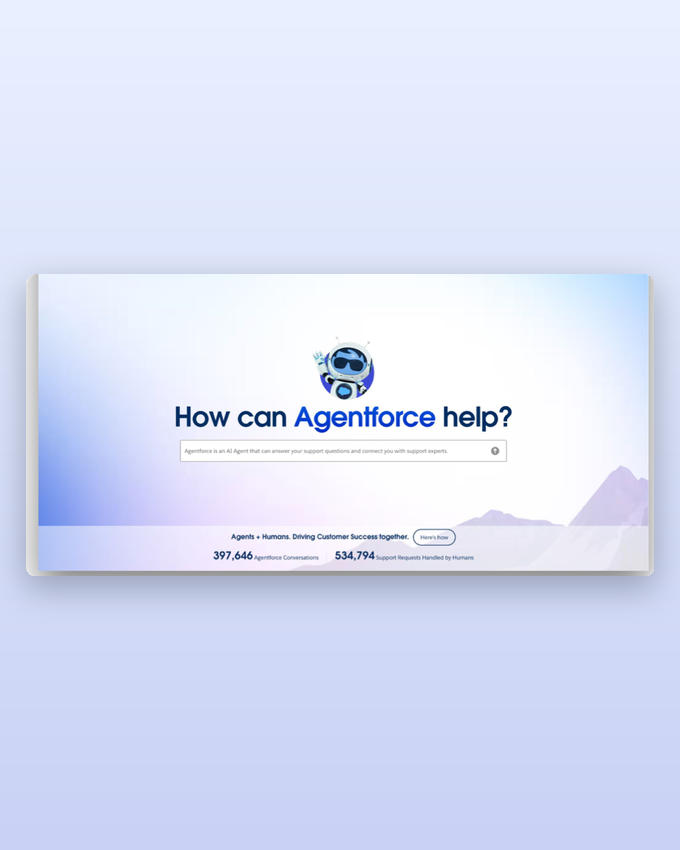
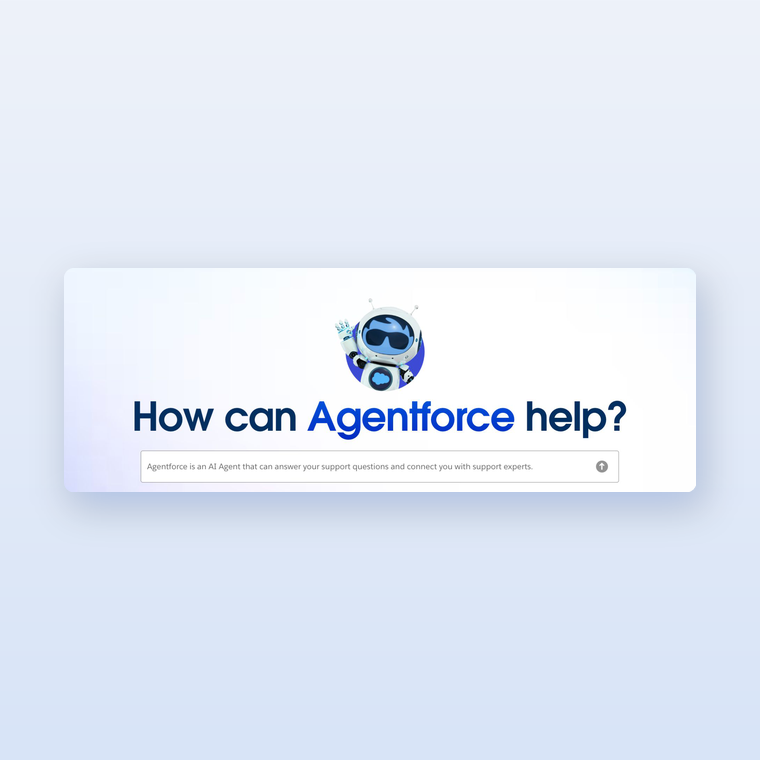
Cut Help.SF story ~68%, make it visual + codify Two-Role palette rule
- Reduce help-salesforce.html body from 1,122 to ~355 words (6 tight sections)
- Remove timeline, services grid, snapshot panel, before/after list + dead CSS
- Insert 3 framed real screenshots: before nav site, nav→conversation composite,
  live Agentforce chat
- Rebuild card hero (help-salesforce-hero.png) as the agentic conversation shot
- Keep Leadership's-ask pull quote verbatim
- Codify Two-Role color rule in DESIGN-SYSTEM.md (blue=data/action,
  bronze=editorial structure, never competing) + HANDOFF

Changed region(s): [[0.0, 0.3026, 0.9882, 0.7263], [0.3706, 0.3329, 0.7412, 0.3632]]

diff --git a/stories/help-salesforce.html b/stories/help-salesforce.html
@@ -55,41 +55,14 @@ body{background:#FAFAF7;font-family:'DM Sans',sans-serif;color:#1E2A3A;line-heig
 .pull-text{font-family:'Playfair Display',serif;font-size:18px;font-style:italic;color:#3D4F63;line-height:1.65;margin-bottom:8px}
 .pull-attr{font-family:'DM Sans',sans-serif;font-size:10px;font-weight:600;letter-spacing:0.1em;text-transform:uppercase;color:#9A6E3A}
 
-/* ── BEFORE / AFTER ── */
-.before-after{display:grid;grid-template-columns:1fr 1fr;gap:1px;background:#E8E4DC;border:1px solid #E8E4DC;border-radius:8px;overflow:hidden;margin:24px 0}
-.ba-cell{background:#fff;padding:28px 32px}
-.ba-cell.after{background:#F5F2EC}
-.ba-label{font-family:'DM Sans',sans-serif;font-size:9px;font-weight:600;letter-spacing:0.2em;text-transform:uppercase;color:#9A6E3A;margin-bottom:12px}
-.ba-label.before-lbl{color:#B8B0A0}
-.ba-item{font-family:'DM Sans',sans-serif;font-size:13px;color:#5A6678;line-height:1.7;font-weight:300;display:flex;gap:8px;margin-bottom:6px}
-.ba-item::before{content:'→';color:#9A6E3A;font-weight:600;flex-shrink:0}
-.ba-cell.after .ba-item::before{content:'✓';color:#1753C5}
-
-/* ── ROLE / SERVICES GRID ── */
-.services-grid{display:grid;grid-template-columns:repeat(3,1fr);gap:16px;margin:24px 0}
-.service-chip{background:#fff;border:1px solid #E8E4DC;border-radius:6px;padding:16px 20px}
-.service-chip-name{font-family:'DM Sans',sans-serif;font-size:11px;font-weight:600;color:#1E2A3A;margin-bottom:4px}
-.service-chip-desc{font-family:'DM Sans',sans-serif;font-size:10px;color:#8A8A7A;line-height:1.5}
-
-/* ── SNAPSHOT STATS (point-in-time) ── */
-.snapshot{background:#1E2A3A;border-radius:8px;padding:32px;margin:24px 0}
-.snapshot-caption{font-family:'DM Sans',sans-serif;font-size:9px;font-weight:600;letter-spacing:0.15em;text-transform:uppercase;color:#E8C89D;margin-bottom:20px;text-align:center}
-.snapshot-grid{display:grid;grid-template-columns:repeat(2,1fr);gap:24px}
-.snap-item{text-align:center}
-.snap-num{font-family:'Playfair Display',serif;font-size:32px;font-weight:900;color:#E8C89D;line-height:1}
-.snap-lbl{font-family:'DM Sans',sans-serif;font-size:9px;color:rgba(255,255,255,0.45);letter-spacing:0.12em;text-transform:uppercase;margin-top:6px}
-.snapshot-note{font-family:'DM Sans',sans-serif;font-size:10px;color:rgba(255,255,255,0.4);text-align:center;margin-top:20px;font-style:italic;line-height:1.6}
-
-/* ── TIMELINE ── */
-.timeline{position:relative;margin:24px 0 8px;padding-left:28px}
-.timeline::before{content:'';position:absolute;left:5px;top:6px;bottom:6px;width:2px;background:#E8E4DC}
-.tl-item{position:relative;padding-bottom:28px}
-.tl-item:last-child{padding-bottom:0}
-.tl-item::before{content:'';position:absolute;left:-28px;top:5px;width:12px;height:12px;border-radius:50%;background:#FAFAF7;border:2px solid #9A6E3A}
-.tl-item.turn::before{background:#1753C5;border-color:#1753C5}
-.tl-date{font-family:'DM Sans',sans-serif;font-size:10px;font-weight:600;letter-spacing:0.12em;text-transform:uppercase;color:#9A6E3A;margin-bottom:4px}
-.tl-label{font-family:'Playfair Display',serif;font-size:16px;font-weight:700;color:#1E2A3A;line-height:1.25;margin-bottom:6px}
-.tl-desc{font-family:'DM Sans',sans-serif;font-size:13px;color:#5A6678;line-height:1.7;font-weight:300}
+/* ── FIGURES (framed, on cream) ── */
+.figure{margin:32px 0;border:1px solid #E8E4DC;border-radius:10px;background:#fff;padding:14px;box-shadow:0 6px 28px rgba(30,42,58,0.05)}
+.figure img{width:100%;display:block;border-radius:5px;border:1px solid #F0EDE6}
+.fig-tag{font-family:'DM Sans',sans-serif;font-size:9px;font-weight:600;letter-spacing:0.18em;text-transform:uppercase;color:#9A6E3A;margin-bottom:10px}
+.fig-tag.before-tag{color:#B8B0A0}
+.figcap{font-family:'DM Sans',sans-serif;font-size:11px;color:#8A8A7A;line-height:1.6;margin-top:12px;font-style:italic;letter-spacing:0.02em}
+.figure-pair{display:grid;grid-template-columns:1fr 1fr;gap:16px;margin:32px 0}
+.figure-pair .figure{margin:0}
 
 /* ── DECK LINK ── */
 .deck-cta{display:flex;align-items:center;gap:20px;background:#fff;border:1.5px solid #E8E4DC;border-radius:8px;padding:24px 28px;margin:16px 0;text-decoration:none;transition:all 0.25s;cursor:pointer}
@@ -126,9 +99,7 @@ body{background:#FAFAF7;font-family:'DM Sans',sans-serif;color:#1E2A3A;line-heig
   .back,.story-hero,.metrics-bar,.story-body,.story-nav{padding-left:20px;padding-right:20px}
   .story-title{font-size:30px}
   .metrics-bar{flex-wrap:wrap;gap:24px}
-  .before-after{grid-template-columns:1fr}
-  .services-grid{grid-template-columns:1fr}
-  .snapshot-grid{grid-template-columns:1fr 1fr}
+  .figure-pair{grid-template-columns:1fr;gap:24px}
   .site-footer{padding:32px 20px}
 }
 </style>
@@ -176,22 +147,25 @@ body{background:#FAFAF7;font-family:'DM Sans',sans-serif;color:#1E2A3A;line-heig
   <div class="story-section">
     <div class="section-label">The Starting Point</div>
     <h2 class="section-heading">Built for a different era of self-service.</h2>
-    <p class="body-text">Salesforce Help wasn't broken, exactly — it was just built for a different era of self-service. Every year, customers made <strong>60 million visits</strong>, sifted through <strong>755,000 support articles</strong>, and still opened <strong>2 million support cases</strong> because self-service didn't get them to an answer. Chat existed on the site, but it was a secondary feature: limited in function, buried in the experience, disconnected from where customers actually needed help.</p>
-    <p class="body-text">That was the state of things through most of 2024.</p>
+    <p class="body-text">Salesforce Help wasn't broken — it was built for a different era. Customers made <strong>60 million visits a year</strong>, sifted through 755,000 articles, and still opened <strong>2 million support cases</strong> because self-service didn't get them to an answer. Chat existed, but it was buried, limited, and disconnected from where help was actually needed.</p>
   </div>
 
   <div class="story-section">
-    <div class="section-label">The Insight — Months Before Anyone Asked</div>
+    <div class="section-label">The Insight</div>
     <h2 class="section-heading">Conversation, not navigation, would be the interface.</h2>
-    <p class="body-text">Working with our Product VP (now SVP) on the Service Cloud design team, I identified early that conversation — not navigation — would be the primary way customers experienced and adopted Agentforce. Chat wasn't a feature to incrementally improve; it was going to be the interface Agentforce got judged by, whether we were ready or not.</p>
-    <p class="body-text">In late October 2024, I led a deep product and design sprint that produced designs, a point of view, and committed product plans for a conversation-first, agent-forward help experience — and we communicated that plan widely before Salesforce's own internal Agentforce Kick-Off.</p>
+    <p class="body-text">Working with our Product VP (now SVP), I called it early: conversation — not navigation — would be how customers experienced and judged Agentforce. In late October 2024, I led a design sprint that produced the vision, designs, and committed plans for a conversation-first help experience, and socialized them widely — before anyone asked for it.</p>
+
+    <div class="figure">
+      <div class="fig-tag before-tag">Before</div>
+      <img src="../images/hsf-before.png" alt="The original Help.Salesforce.com homepage: a navigation-first layout headed by a static &quot;How can we help?&quot; search box above a grid of product-documentation tiles."/>
+      <div class="figcap">The site as it stood through most of 2024 — a static "How can we help?" search box over rows of navigation.</div>
+    </div>
   </div>
 
   <div class="story-section">
-    <div class="section-label">The Turn — November 5, 2024</div>
+    <div class="section-label">The Turn · November 5, 2024</div>
     <h2 class="section-heading">Customer Zero, and five days on the clock.</h2>
-    <p class="body-text">At Agentforce Kick-Off (AKO), Marc Benioff declared that Help.Salesforce.com would become Salesforce's live "Customer Zero" showcase — the company's own proof point for Agentforce, in front of customers and the market.</p>
-    <p class="body-text">The parameters were blunt: redesign the UI, prioritize Customer Zero — and you've got <strong>5 days</strong> to lock design and specs. A cross-functional team formed almost overnight: the MIAW (Messaging In-App &amp; Web) team and the Customer Success team, previously working in separate lanes, became — in the words of the project retro — "one team, overnight." I led design for that 15-person founding group.</p>
+    <p class="body-text">At Agentforce Kick-Off, Marc Benioff named Help.Salesforce.com Agentforce's live <strong>"Customer Zero"</strong> — the company's own proof point, in front of the market. The brief was blunt: redesign the UI, <strong>5 days</strong> to lock specs, a month to ship. The Messaging and Customer Success teams became, in the retro's words, "one team, overnight." I led design for the 15-person founding group.</p>
 
     <div class="pull">
       <div class="pull-bar"></div>
@@ -203,125 +177,30 @@ body{background:#FAFAF7;font-family:'DM Sans',sans-serif;color:#1E2A3A;line-heig
   </div>
 
   <div class="story-section">
-    <div class="section-label">The Build — 5 Days to Spec, 1 Month to Ship</div>
-    <h2 class="section-heading">Deliberately simple tooling. Work done in the open.</h2>
-    <p class="body-text">The team kept tooling deliberately simple: <strong>Figma</strong> for design specs, a shared <strong>Google Sheet</strong> ("Chat x Help Prioritization") to sequence feature work, and a single <strong>Slack channel</strong> as "our everything place" — where design, product, and engineering worked in the open, in real time.</p>
-    <p class="body-text">I described my own role across three levels, reflected in the project retrospective:</p>
-    <div class="services-grid">
-      <div class="service-chip"><div class="service-chip-name">As an individual</div><div class="service-chip-desc">Understand the technology, form an informed opinion, improve the end-to-end experience anywhere I could — in both breadth and depth.</div></div>
-      <div class="service-chip"><div class="service-chip-name">As a people leader</div><div class="service-chip-desc">Empower the team's Messaging Lead Designer, unblock the critical path, check titles at the door and work as a coalition.</div></div>
-      <div class="service-chip"><div class="service-chip-name">As an enterprise influencer</div><div class="service-chip-desc">Communicate up, down, and sideways; find the smartest people and get out of their way; forge partnerships across orgs; own executive summary and escalation.</div></div>
-    </div>
-    <p class="body-text">From concept to shipped product, in under a month — ahead of Investor Day.</p>
-  </div>
-
-  <div class="story-section">
     <div class="section-label">The Outcome</div>
     <h2 class="section-heading">A search box became a conversation.</h2>
-    <p class="body-text">The rebuilt experience replaced a static "how can we help?" search box with a conversational Agentforce interface, front and center on the homepage.</p>
+    <p class="body-text">We replaced the search box with a conversational Agentforce interface, front and center — clicks became turns of a dialogue.</p>
 
-    <div class="before-after">
-      <div class="ba-cell">
-        <div class="ba-label before-lbl">Before</div>
-        <div class="ba-item">Navigation-first support site</div>
-        <div class="ba-item">Static "how can we help?" search box</div>
-        <div class="ba-item">Chat limited, buried, disconnected</div>
-        <div class="ba-item">755K articles to sift through</div>
-        <div class="ba-item">2M support cases a year</div>
-      </div>
-      <div class="ba-cell after">
-        <div class="ba-label">After</div>
-        <div class="ba-item">Conversation-first experience</div>
-        <div class="ba-item">Agentforce interface, front and center</div>
-        <div class="ba-item">Chat as the primary interface</div>
-        <div class="ba-item">Answers surfaced through dialogue</div>
-        <div class="ba-item">Millions of conversations resolved in-experience</div>
-      </div>
+    <div class="figure">
+      <img src="../images/hsf-nav-to-convo.png" alt="A side-by-side composite: the old navigation-first homepage on the left overlapping the redesigned conversational &quot;How can Agentforce help?&quot; homepage on the right."/>
+      <div class="figcap">The reframe, in one image: the old navigation site giving way to a conversation-first homepage.</div>
     </div>
 
-    <p class="body-text">In the weeks after launch, the live site tracked its own adoption in real time — climbing across two point-in-time snapshots as adoption continued:</p>
-
-    <div class="snapshot">
-      <div class="snapshot-caption">Point-in-time · Live site counters</div>
-      <div class="snapshot-grid">
-        <div class="snap-item"><div class="snap-num">397,646 → 421,891</div><div class="snap-lbl">Agentforce Conversations</div></div>
-        <div class="snap-item"><div class="snap-num">534,794 → 550,638</div><div class="snap-lbl">Support Requests Handled by Humans</div></div>
-      </div>
-      <div class="snapshot-note">Early snapshots from the same live page counter — the trajectory that would climb to 4.75M+ conversations by July '26.</div>
+    <div class="figure">
+      <div class="fig-tag">After · Live</div>
+      <img src="../images/hsf-chat.png" alt="The live Agentforce chat on Help.Salesforce.com: a customer asks &quot;How can I set up an Agent?&quot; and Agentforce replies with step-by-step setup instructions."/>
+      <div class="figcap">The shipped experience: Agentforce answering a real support question in-line, no navigation required.</div>
     </div>
 
-    <p class="body-text">Measured cumulatively, the live experience has now powered <strong>4.75M+ Agentforce conversations</strong> and <strong>2.3M+ support requests handled by humans</strong> — the site's own public counters, chat + Agentforce combined, since October 2024 (as of July '26).</p>
+    <p class="body-text">Measured on the site's own public counters, the live experience has now powered <strong>4.75M+ Agentforce conversations</strong> and <strong>2.3M+ support requests handled by humans</strong> — chat + Agentforce combined, since October 2024 (as of July '26). Making chat the primary interface set the stage for the voice agents that came next, work I continued as a named co-author on Salesforce's conversational roadmap.</p>
 
-    <p class="body-text">The underlying strategy and framework — reframing the experience around five mindset shifts (navigation→conversation, content management→knowledge engineering, siloed specialist→cross-functional coalition, fixed UI→flexible engagement, building features→designing outcomes) — reached customers directly at TDX. <strong>I co-authored that presentation for the team to deliver on stage;</strong> Emily Winslow and Nimma Bhusri presented it.</p>
-  </div>
-
-  <div class="story-section">
-    <div class="section-label">What Came Next</div>
-    <h2 class="section-heading">The work didn't stop at launch.</h2>
-    <p class="body-text">Conversation was the beginning, not the end. Making chat the primary interface set the stage for what came next — voice agents — and Amanda continued as a named co-author on Salesforce's forward-looking roadmap for the next generation of conversational and voice experiences.</p>
+    <p class="body-text">The strategy behind it — five mindset shifts, from navigation→conversation to building features→designing outcomes — reached customers at TDX. <strong>I co-authored that presentation;</strong> Emily Winslow and Nimma Bhusri delivered it on stage.</p>
   </div>
 
   <div class="story-section">
     <div class="section-label">Reflection</div>
-    <h2 class="section-heading">A bet on how AI products actually get adopted.</h2>
-    <p class="body-text">This wasn't a redesign. It was a bet on how AI products actually get adopted — made months before the moment demanded it, then executed at founding-team speed once it did. Frictionless self-service activation, rapid iteration, and treating a help center as a growth engine rather than a cost center: the same instincts that drive product-led growth in consumer and B2B SaaS, applied here to reshape how millions of enterprise customers experienced AI for the first time.</p>
-  </div>
-
-  <div class="story-section">
-    <div class="section-label">Timeline</div>
-    <h2 class="section-heading">From navigation site to Customer Zero.</h2>
-    <div class="timeline">
-      <div class="tl-item">
-        <div class="tl-date">Pre-2024 · Ongoing</div>
-        <div class="tl-label">A traditional navigation-based site</div>
-        <div class="tl-desc">Salesforce Help operates as a navigation-first site: 60M visits/yr, 755K articles, 2M cases/yr. Chat exists but is limited, buried, and disconnected from user need.</div>
-      </div>
-      <div class="tl-item">
-        <div class="tl-date">Prior to Oct 2024</div>
-        <div class="tl-label">The insight forms</div>
-        <div class="tl-desc">Working with the Product VP (now SVP), Amanda identifies conversation — not navigation — as the likely primary interface for Agentforce adoption.</div>
-      </div>
-      <div class="tl-item">
-        <div class="tl-date">Late Oct 2024</div>
-        <div class="tl-label">A deep product &amp; design sprint</div>
-        <div class="tl-desc">Amanda leads a sprint producing designs, vision, and committed product plans for a conversation-first help experience. Plans communicated widely ahead of AKO.</div>
-      </div>
-      <div class="tl-item turn">
-        <div class="tl-date">Nov 5, 2024 · Agentforce Kick-Off</div>
-        <div class="tl-label">Benioff names it "Customer Zero"</div>
-        <div class="tl-desc">Marc Benioff declares Help.Salesforce.com will be Agentforce's live "Customer Zero" showcase — the company's own proof point.</div>
-      </div>
-      <div class="tl-item">
-        <div class="tl-date">Nov 2024 · Immediately after</div>
-        <div class="tl-label">Five days to spec; one team overnight</div>
-        <div class="tl-desc">Leadership's ask formalized: integrate Agentforce, redesign the UI, prioritize Customer Zero — 5 days to spec. The MIAW team and Customer Success team merge into one team overnight.</div>
-      </div>
-      <div class="tl-item">
-        <div class="tl-date">Nov 2024 · Sprint window</div>
-        <div class="tl-label">15-person founding team builds</div>
-        <div class="tl-desc">A 15-person founding team (Amanda leading design) works from concept to shipped product. Tooling kept deliberately simple: Figma, Google Sheets, Slack.</div>
-      </div>
-      <div class="tl-item">
-        <div class="tl-date">~Nov–Dec 2024 · Under 1 month</div>
-        <div class="tl-label">Launch — ahead of Investor Day</div>
-        <div class="tl-desc">The conversation-first, Agentforce-powered chat experience launches on Help.Salesforce.com, ahead of Investor Day.</div>
-      </div>
-      <div class="tl-item">
-        <div class="tl-date">Post-launch</div>
-        <div class="tl-label">Adoption climbs, tracked live</div>
-        <div class="tl-desc">The live site shows adoption climbing across two point-in-time counter snapshots (397,646→421,891 Agentforce conversations; 534,794→550,638 support requests handled by humans).</div>
-      </div>
-      <div class="tl-item">
-        <div class="tl-date">TDX 2025</div>
-        <div class="tl-label">The framework reaches customers</div>
-        <div class="tl-desc">The 5 Mindset Shifts framework built from this work is presented to customers at TDX. Amanda co-authored the presentation; Emily Winslow and Nimma Bhusri delivered it on stage.</div>
-      </div>
-      <div class="tl-item">
-        <div class="tl-date">As of July 2026</div>
-        <div class="tl-label">Adoption compounds</div>
-        <div class="tl-desc">The live public counters show 4.75M+ Agentforce conversations and 2.3M+ support requests handled by humans — chat + Agentforce combined, cumulative since October 2024.</div>
-      </div>
-    </div>
+    <h2 class="section-heading">A bet on how AI actually gets adopted.</h2>
+    <p class="body-text">This wasn't a redesign. It was a bet on how AI products get adopted — made months early, then executed at founding-team speed once the moment demanded it. Treating a help center as a growth engine, not a cost center: the same product-led instincts, applied to reshape how millions of enterprise customers met AI for the first time.</p>
   </div>
 
   <div class="story-section">

diff --git a/DESIGN-SYSTEM.md b/DESIGN-SYSTEM.md
@@ -13,18 +13,39 @@
 
 ## Color Palette
 
+### The Two-Role Rule — do not break this
+
+The site runs on **three** colors (blue, bronze, charcoal). A designer argued for two;
+we kept three on one condition, written here so it is never violated: **blue and bronze
+have separate, non-overlapping jobs, and they must never compete on the same element.**
+
+- **Blue (`#1753C5`) = data + primary action.** Metric numbers, statistics, the one
+  primary action in a view. If it's a number that proves impact or the single thing you
+  most want clicked, it's blue.
+- **Bronze (`#9A6E3A`) = editorial structure.** Section labels, eyebrows, hairline rules,
+  pull-quote bars, active-nav underline, figure tags. Bronze frames and organizes; it
+  never carries data and is never the primary action.
+- **Never on the same element.** A single element gets blue *or* bronze, never both
+  fighting for the eye. A bronze section label above a blue metric is correct (different
+  elements, different jobs). A number rendered half-blue-half-bronze, or a button that is
+  bronze *and* sits on a blue field competing for "click me," is not.
+
+If, as pages accumulate, these roles start to blur — bronze creeping onto data, blue
+creeping onto structure — that is the signal the designer was right: collapse to blue as
+the only accent and demote bronze to a hairline. Until then, three colors stand.
+
 ### Primary
 | Name | Hex | Usage |
 |---|---|---|
-| Blue | `#1753C5` | Metric numbers, CTAs, active nav states |
-| Charcoal | `#1E2A3A` | Primary text, footer background, dark UI |
+| Blue | `#1753C5` | Metric/stat numbers; the single primary action in a view |
+| Charcoal | `#1E2A3A` | Primary text, footer background, dark UI, default CTA text |
 | Charcoal Mid | `#5A6678` | Body text, card descriptions |
 | Page Cream | `#FAFAF7` | Page background — warm white, not pure white |
 
 ### Accent
 | Name | Hex | Usage |
 |---|---|---|
-| Bronze | `#9A6E3A` | Active nav, section labels, pull quote bars, CTAs, decorative accents |
+| Bronze | `#9A6E3A` | Editorial structure only: section labels, pull-quote bars, active-nav underline, hairline rules, figure tags, CTA hover |
 | Bronze Warm | `#E8C89D` | Bronze on dark backgrounds (footer, dark hero) |
 | Border | `#E8E4DC` | All borders, dividers, card edges |
 | Muted Text | `#8A8A7A` | Nav links (inactive), stat labels, metadata |

diff --git a/HANDOFF.md b/HANDOFF.md
@@ -1,8 +1,10 @@
 # HANDOFF — Amanda Cornett Harris Portfolio Site
 Last updated: 2026-07-16. All four main pages are live on the editorial design.
 Two story sub-pages are now built (`xd-transformation.html`, `help-salesforce.html`);
-the remaining 6 are unbuilt. The Help.Salesforce.com sub-page no longer carries a
-Sources/footnotes section (removed) — its metrics are the site's live public counters.
+the remaining 6 are unbuilt. The Help.Salesforce.com sub-page was cut to ~355 body words
+and made visual with three framed real screenshots (see §6); its metrics are the site's
+live public counters. A **Two-Role color rule** (blue = data/action, bronze = editorial
+structure, never competing) is now codified in DESIGN-SYSTEM.md — hold it on every page.
 
 **Deck-link pattern (available, not currently used by any card):** A featured card's
 "Read the story" CTA *can* point to a PDF in `docs/` instead of a sub-page, opening in a
@@ -99,11 +101,11 @@ Think Bloomberg Businessweek profile of the most interesting executive in the ro
 - Body/UI: `DM Sans` — 300, 400, 500, 600
 - Both loaded via Google Fonts
 
-**Colors:**
-- Blue: `#1753C5` — metric numbers, CTAs
-- Charcoal: `#1E2A3A` — primary text, footer bg
+**Colors** (governed by the **Two-Role Rule** in DESIGN-SYSTEM.md — read it before using accent color):
+- Blue: `#1753C5` — **data + primary action only** (metric numbers, the one primary CTA)
+- Bronze: `#9A6E3A` — **editorial structure only** (section labels, pull-quote bars, active-nav underline, hairlines, figure tags). Blue and bronze must NEVER compete on the same element.
+- Charcoal: `#1E2A3A` — primary text, footer bg, default CTA text
 - Page cream: `#FAFAF7` — page background
-- Bronze: `#9A6E3A` — nav active, section labels, pull quote bars, CTAs
 - Border: `#E8E4DC` — all borders and dividers
 
 **Nav:** Sticky, cream bg, name left (Playfair 15px 700), links right (DM Sans 10px uppercase).
@@ -143,7 +145,7 @@ Use `DESIGN-SYSTEM.md` as the canonical spec for all design decisions.
 
 | File | Story | Status | Notes |
 |---|---|---|---|
-| `stories/help-salesforce.html` | Help.Salesforce.com | ✅ Done | Built from the xd-transformation template. Featured card (in BOTH index + impact-stories) links here. Two cleared decks linked under "Source Material" (`help-salesforce-deck.pdf`, `5-key-mindset-shifts.pdf`). Metrics now use the site's live public counters: **4.75M+ Agentforce conversations** and **2.3M+ requests handled by humans** (chat + Agentforce, cumulative since October 2024, "as of July '26" disclaimer). The Sources/footnotes section was removed. Guardrails: never link/describe the "SF Chat Modernization" deck (Salesforce-internal only); TDX presentation was co-authored by Amanda but delivered on stage by Emily Winslow & Nimma Bhusri; **NEVER reintroduce the 82% self-service / co-sourced 2.2M+ stat — internal evidence shows it's contrived and it was deliberately removed.** |
+| `stories/help-salesforce.html` | Help.Salesforce.com | ✅ Done | Built from the xd-transformation template, then **cut ~68% (1,122→355 body words)** and made visual — 6 tight sections, timeline/services-grid/snapshot/before-after blocks all removed, three real screenshots inserted (`.figure`, framed on cream): `hsf-before.png` (old nav homepage), `hsf-nav-to-convo.png` (navigation→conversation composite, cropped from deck slide), `hsf-chat.png` (live Agentforce chat). Leadership's-ask pull quote kept verbatim. Featured card (in BOTH index + impact-stories) links here; its hero `images/help-salesforce-hero.png` was rebuilt to the agentic-conversation shot ("How can Agentforce help?" bot + prompt box, framed on blue gradient). Two cleared decks linked under "Source Material" (`help-salesforce-deck.pdf`, `5-key-mindset-shifts.pdf`). Metrics use the site's live public counters: **4.75M+ Agentforce conversations** and **2.3M+ requests handled by humans** (chat + Agentforce, cumulative since October 2024, "as of July '26" disclaimer). Guardrails: never link/describe the "SF Chat Modernization" deck (Salesforce-internal only); TDX presentation was co-authored by Amanda but delivered on stage by Emily Winslow & Nimma Bhusri; **NEVER reintroduce the 82% self-service / co-sourced 2.2M+ stat — internal evidence shows it's contrived and it was deliberately removed.** |
 | `stories/command-center.html` | Command Center | ⚠️ Build needed | Salesforce; featured card |
 | `stories/bnsf-digital-cx.html` | BNSF Digital CX | ⚠️ Build needed | BNSF; featured card |
 | `stories/trackathon.html` | Trackathon | ⚠️ Build needed | BNSF |